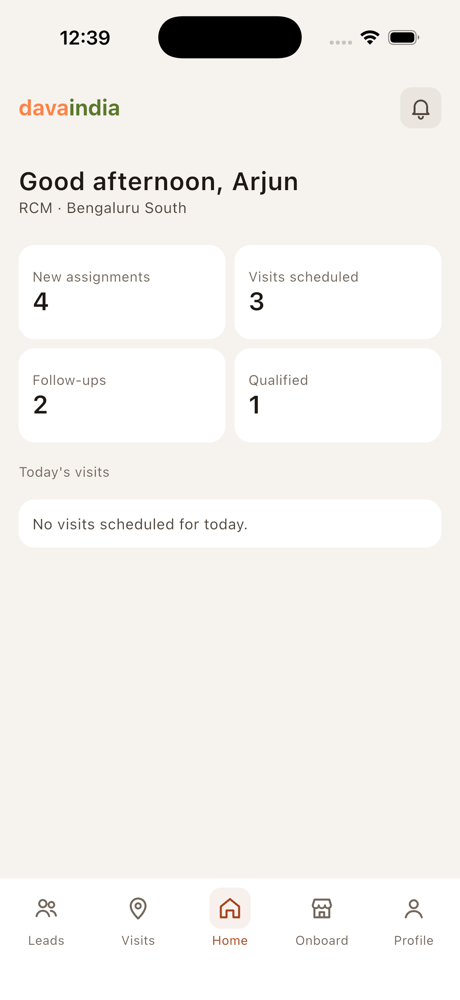
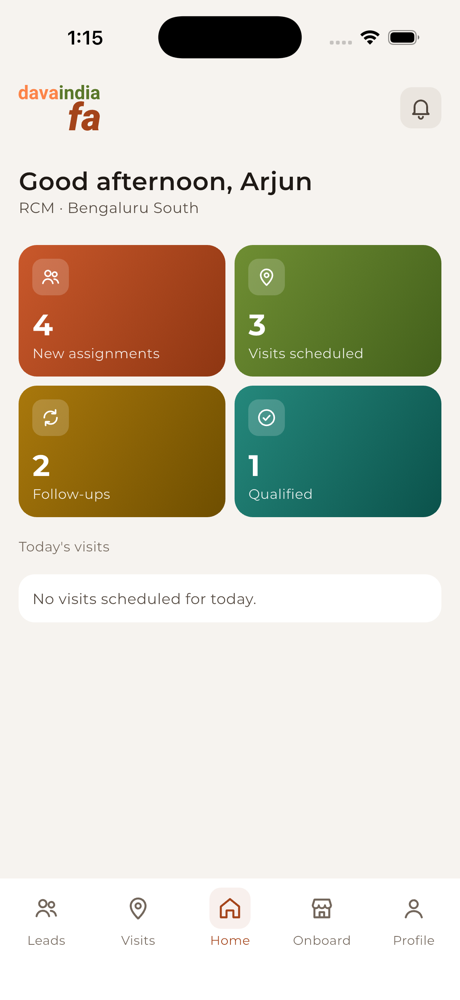
Update README, changelog and screenshots

diff --git a/README.md b/README.md
@@ -36,10 +36,12 @@ Built so far:
 - Email and password sign-in, with the phone's device ID sent for admin approval.
 - Opens offline using the last signed-in session.
 - Bottom tabs (Leads, Visits, Home, Onboard, Profile) shown according to the user's permissions; alerts open from the bell on Home.
-- Home with greeting, territory and lead counts.
+- Home with greeting, territory and lead counts as gradient cards.
 - Profile tab with contact details, app version, a copyable device ID and sign out.
 - Light and dark themes that follow the phone setting.
 - Custom icon set drawn from SVG sources, with no icon font or SVG library.
+- The app icon and in-app logo come from the same vector artwork, generated by `scripts/app_icon/generate.py`.
+- Montserrat, bundled with the app.
 - Demo mode that answers the API with sample data.
 
 Planned next: the lead list and detail, visit scheduling with GPS check-in, the onboarding steps, payment recording, push notifications, and the in-app updater that installs new versions from GitHub Releases.
@@ -95,6 +97,12 @@ After adding or changing an SVG in `assets/icons/`, regenerate the icon code:
 dart run scripts/gen_icons.dart
 ```
 
+To rebuild the app icon and in-app logo (needs `pip install fonttools`, `rsvg-convert` and ImageMagick):
+
+```bash
+python3 scripts/app_icon/generate.py
+```
+
 ## Releasing
 
 Android builds are made only by GitHub Actions.
@@ -120,7 +128,8 @@ lib/
   core/         theme tokens, icons, API client, session, shared widgets
   features/     one folder per area: auth, home, leads, visits, onboarding, profile, alerts
 assets/icons/   SVG sources for the icon set
-scripts/        icon generator
+assets/fonts/   Montserrat (SIL Open Font License)
+scripts/        icon set and app icon generators
 test/           unit and widget tests
 env/            build settings for demo and local runs
 ```

diff --git a/CHANGELOG.md b/CHANGELOG.md
@@ -4,6 +4,19 @@ All notable changes to this project are documented here. The format follows [Kee
 
 ## [Unreleased]
 
+### Added
+
+- Home counters as gradient cards with icons, aligned to the bottom when labels wrap.
+- Data refreshes when the app returns to the foreground, every few minutes while open, and when a server event arrives.
+- App icon for Android and iOS, generated from vector outlines, and the same logo inside the app.
+- Montserrat as the app font, bundled with the app.
+- Location, camera, photo, notification and install permissions declared for the coming features.
+
+### Changed
+
+- Profile moved into the bottom tabs; alerts open from the bell on Home.
+- Requires Flutter 3.50; Material widgets come from the material_ui package.
+
 ## [0.1.0]
 
 ### Added
